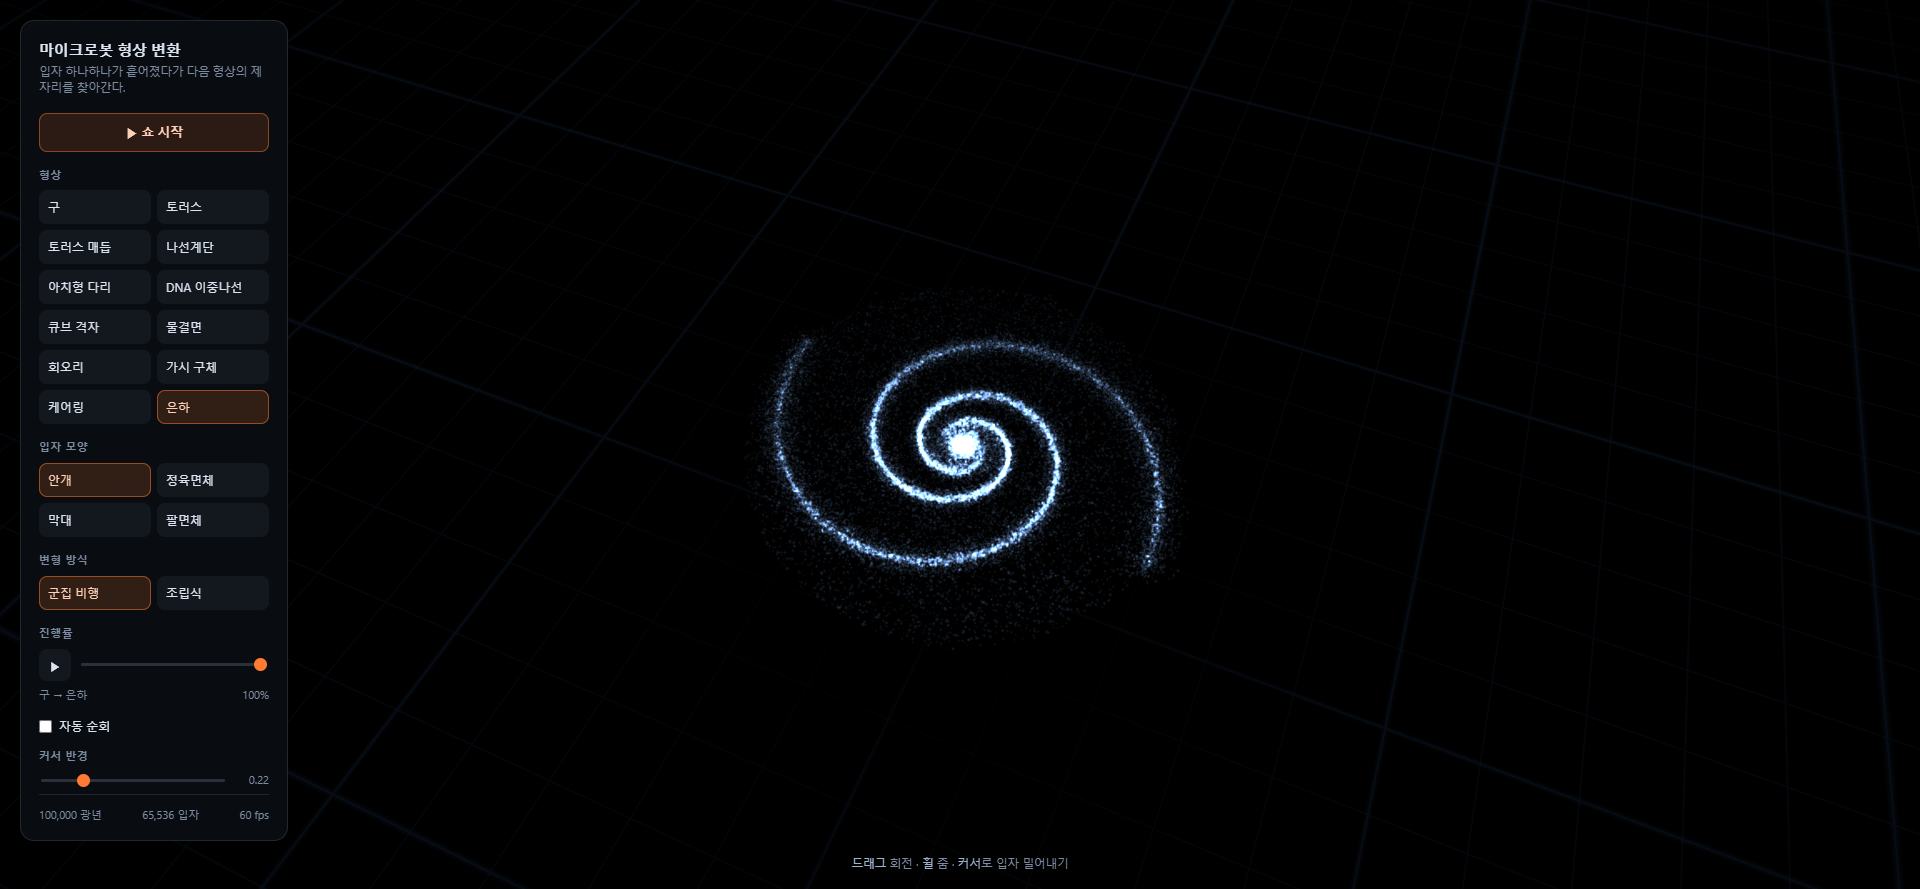
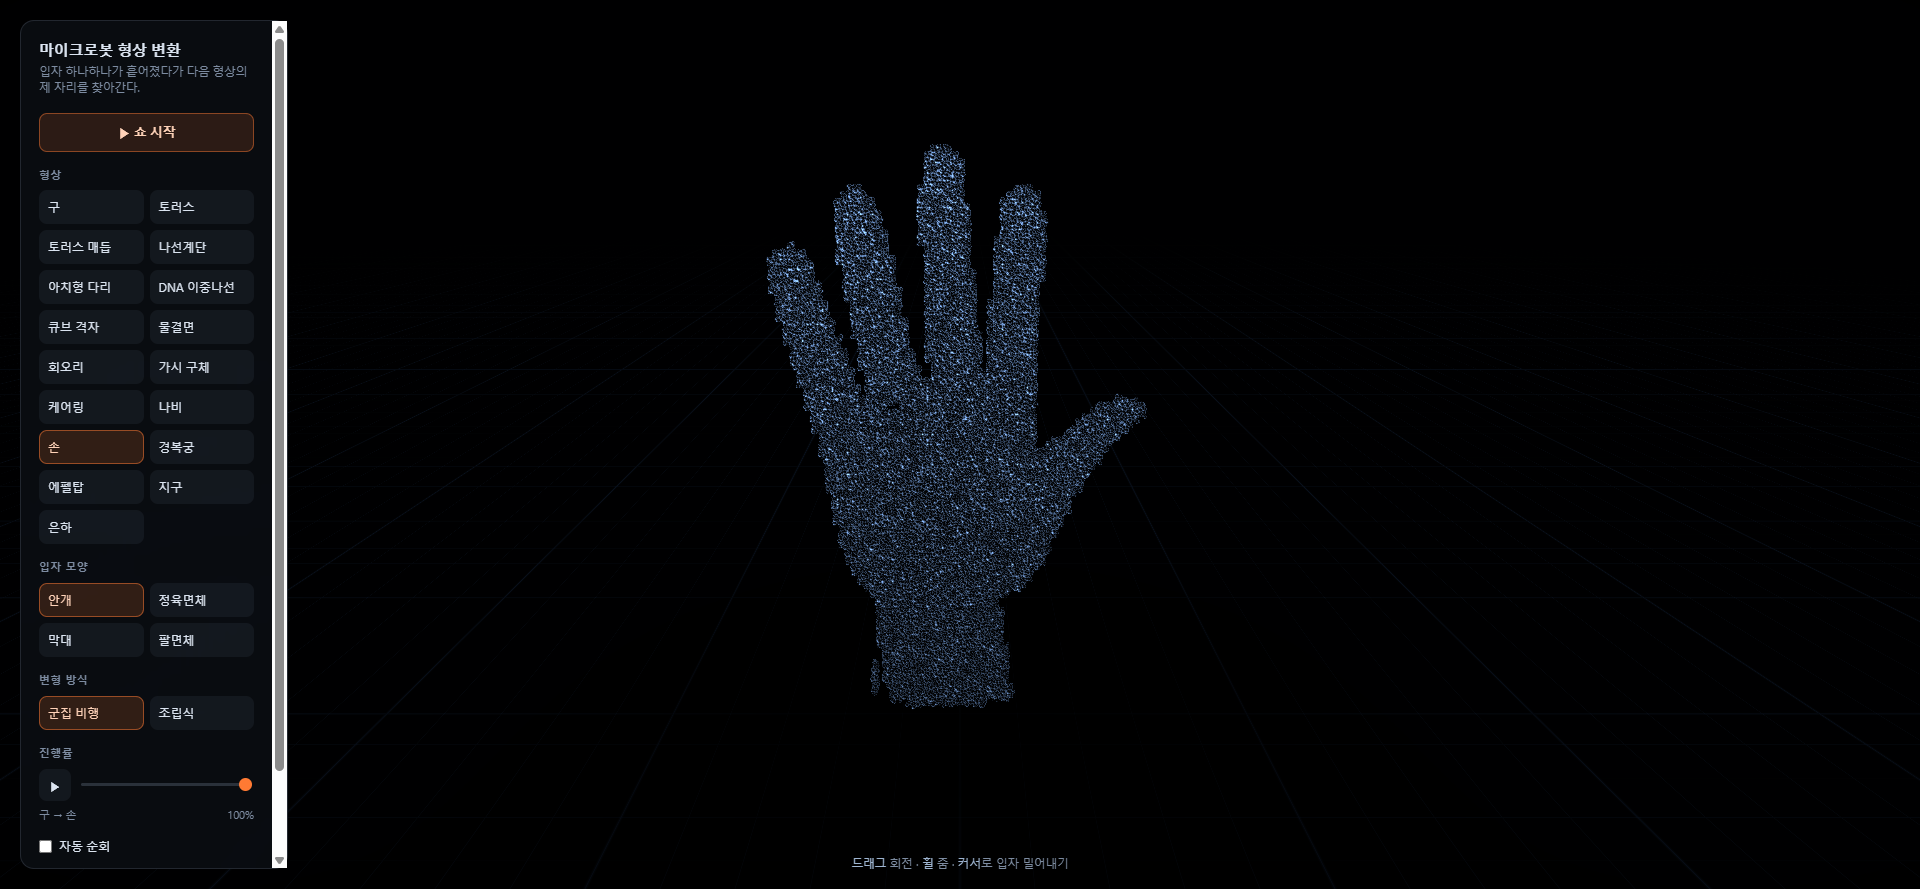
이미지 형상 5종 추가, 입자 크기·커서 반경 조정
손·경복궁·나비·에펠탑·지구를 이미지에서 실루엣으로 구워 넣었다.
caringMask.js를 masks.js로 일반화해 여러 마스크를 담는다.

- maskGenerator(id, thickness, cross): 실루엣을 XY 평면의 판으로 만든다.
  cross를 켜면 절반을 90도 돌려 ZY 평면에도 세운다. 에펠탑처럼 평면도가
  정사각형인 구조물은 판 하나로는 옆에서 보면 사라진다
- 에펠탑은 나무·가로등·올림픽 링·테두리가 섞여 있어 탑 기둥만 잘랐다
- 지구는 대륙 추출을 포기했다. 구름이 육지와 같은 색 신호(채도 낮고
  밝음)라 어떤 임계값에서도 대서양 구름대가 육지로 분류됐다. 대신
  사진의 밝기를 그대로 밀도 지도로 써서 구름 낀 행성으로 만들었다

입자 크기와 커서 반경도 손봤다.

- 기본 입자 크기 0.016 → 0.0125
- 가산 모드는 반대로 1.75배, 최소 2.6px. 작은 점에 부드러운 감쇠를
  그리면 칠할 픽셀이 없어 각진 알갱이로 깨지고 은하의 가는 팔도 끊긴다
- 커서 반경 기본값 0.22 → 0.06, 하한 0.03

diff --git a/src/masks.js b/src/masks.js
@@ -1,0 +1,47 @@
+// 이미지에서 뽑아 구워둔 실루엣 마스크들.
+//
+// 런타임에 이미지 파일을 들고 다니지 않으므로 "외부 에셋 0개" 원칙이
+// 유지된다. 1비트 = 격자 한 칸, 4칸이 16진수 한 글자다.
+//
+// 추출은 브라우저 캔버스로 했다. 대상마다 잉크 판정이 다르다:
+// 색이 있는 로고·사진은 채도/밝기, 선화(에펠탑)는 어두운 픽셀만.
+// earth는 실루엣이 아니라 사진의 밝기 지도다 — 자세한 건 shapes.js 참고.
+
+const RAW = {
[1 lines of base64/hex data omitted]
+
[1 lines of base64/hex data omitted]
+
[1 lines of base64/hex data omitted]
+
[1 lines of base64/hex data omitted]
+
[1 lines of base64/hex data omitted]
+
[1 lines of base64/hex data omitted]
+};
+
+const cache = new Map();
+
+export function maskOf(id) {
+  if (cache.has(id)) return cache.get(id);
+  const raw = RAW[id];
+  if (!raw) throw new Error("알 수 없는 마스크: " + id);
+
+  const cells = new Uint8Array(raw.w * raw.h);
+  for (let i = 0; i < raw.hex.length; i++) {
+    const v = parseInt(raw.hex[i], 16);
+    for (let k = 0; k < 4; k++) {
+      const idx = i * 4 + k;
+      if (idx < cells.length) cells[idx] = (v >> (3 - k)) & 1;
+    }
+  }
+
+  // 채운 칸 목록을 미리 뽑아둔다. 균등 표집이 인덱스 한 번으로 끝난다.
+  const ink = [];
+  for (let i = 0; i < cells.length; i++) if (cells[i]) ink.push(i);
+
+  const m = { w: raw.w, h: raw.h, cells, ink };
+  cache.set(id, m);
+  return m;
+}

diff --git a/src/shapes.js b/src/shapes.js
@@ -4,7 +4,7 @@
 // 불변 규칙: 모든 형상은 정확히 같은 개수의 점을 반환한다.
 // 입자 i가 형상 A의 i번째 자리에서 형상 B의 i번째 자리로 1:1 대응되어야 한다.
 
-import { MASK_W, MASK_H, isInk } from "./caringMask.js";
+import { maskOf } from "./masks.js";
 
 const TAU = Math.PI * 2;
 
@@ -395,27 +395,57 @@ function genGalaxy(pos, n, rnd) {
   }
 }
 
-// 케어링 로고 마크. 구워둔 실루엣 마스크 안을 고르게 채운다.
-function genCaring(pos, n, rnd) {
-  const ink = [];
-  for (let gy = 0; gy < MASK_H; gy++) {
-    for (let gx = 0; gx < MASK_W; gx++) {
-      if (isInk(gx, gy)) ink.push(gy * MASK_W + gx);
-    }
-  }
+// 구워둔 실루엣 마스크 안을 고르게 채운다. XY 평면에 서 있는 판이 된다.
+//
+// cross를 켜면 절반을 90도 돌려 ZY 평면에도 세운다. 에펠탑처럼 평면도가
+// 정사각형인 구조물은 판 하나로는 옆에서 보면 사라지지만, 십자로 세우면
+// 어느 방향에서 봐도 탑으로 읽힌다.
+function maskGenerator(maskId, thickness, cross = false) {
+  return function (pos, n, rnd) {
+    const m = maskOf(maskId);
+    const s = 2 / m.w;
+    const cx = m.w / 2, cy = m.h / 2;
 
-  const s = 2 / MASK_W;
-  const cx = MASK_W / 2, cy = MASK_H / 2;
-  const thickness = 0.13;   // 납작한 판은 옆에서 보면 사라진다
+    for (let i = 0; i < n; i++) {
+      const cell = m.ink[Math.floor(rnd() * m.ink.length)];
+      const gx = cell % m.w;
+      const gy = (cell / m.w) | 0;
+      const px = (gx + rnd() - cx) * s;
+      const py = -(gy + rnd() - cy) * s;
+      const pz = (rnd() - 0.5) * thickness;
+      if (cross && rnd() < 0.5) setP(pos, i, pz, py, px);
+      else setP(pos, i, px, py, pz);
+    }
+  };
+}
+
+// 지구. 마스크는 실루엣이 아니라 사진의 밝기 지도다.
+//
+// 이 렌더에서는 구름과 육지가 같은 색 신호라 대륙만 분리할 수 없었다.
+// 그래서 밝은 곳(구름·사막·육지)은 표면에 빽빽하게, 어두운 곳(심해)은
+// 살짝 안쪽에 성기게 놓는다. 구름 낀 행성으로 읽힌다.
+//
+// 앞뒤 반구에 같은 무늬를 쓴다. 정면이 사진과 일치하고, 뒷면은 어차피
+// 가려져 있다.
+function genEarth(pos, n, rnd) {
+  const m = maskOf("earth");
 
   for (let i = 0; i < n; i++) {
-    const cell = ink[Math.floor(rnd() * ink.length)];
-    const gx = cell % MASK_W;
-    const gy = (cell / MASK_W) | 0;
-    setP(pos, i,
-      (gx + rnd() - cx) * s,
-      -(gy + rnd() - cy) * s,
-      (rnd() - 0.5) * thickness);
+    // 구 표면 균등 표집
+    const z = rnd() * 2 - 1;
+    const a = rnd() * TAU;
+    const rxy = Math.sqrt(Math.max(0, 1 - z * z));
+    const x = rxy * Math.cos(a), y = rxy * Math.sin(a);
+
+    // 정사영으로 사진의 어느 칸인지 찾는다. |z|를 쓰므로 뒷면은 앞면의 거울.
+    const gx = Math.min(m.w - 1, Math.max(0, Math.floor(((x + 1) / 2) * m.w)));
+    const gy = Math.min(m.h - 1, Math.max(0, Math.floor(((1 - y) / 2) * m.h)));
+    const bright = m.cells[gy * m.w + gx] === 1;
+
+    // 어두운 바다는 일부를 솎아내고 살짝 안쪽에 둔다.
+    const keep = bright || rnd() < 0.45;
+    const r = keep ? (bright ? 1.0 : 0.975) : 0.975;
+    setP(pos, i, x * r, y * r, z * r);
   }
 }
 
@@ -433,7 +463,12 @@ const GENERATORS = {
   vortex: genVortex,
   spikeball: genSpikeBall,
   galaxy: genGalaxy,
-  caring: genCaring,
+  caring: maskGenerator("caring", 0.13),
+  hand: maskGenerator("hand", 0.10),
+  palace: maskGenerator("palace", 0.42),
+  eiffel: maskGenerator("eiffel", 0.30, true),
+  butterfly: maskGenerator("butterfly", 0.07),
+  earth: genEarth,
 };
 
 // realSize: 이 형상이 "현실에서 몇 미터짜리인가". 월드 좌표를 바꾸지 않는다.
@@ -454,6 +489,11 @@ export const SHAPE_LIST = [
   { id: "vortex", label: "회오리", realSize: 26 },
   { id: "spikeball", label: "가시 구체", realSize: 9 },
   { id: "caring", label: "케어링", realSize: 4 },
+  { id: "butterfly", label: "나비", realSize: 0.12 },
+  { id: "hand", label: "손", realSize: 0.19 },
+  { id: "palace", label: "경복궁", realSize: 30 },
+  { id: "eiffel", label: "에펠탑", realSize: 330 },
+  { id: "earth", label: "지구", realSize: 12742, unit: "km" },
   // 은하만 단위가 다르다. 미터로 적으면 읽을 수 없는 숫자가 된다.
   // additive: 겹칠수록 밝아지게 그린다. 빽빽한 팽대부가 저절로 타오른다.
   { id: "galaxy", label: "은하", realSize: 100000, unit: "광년", additive: true },

diff --git a/src/particles.js b/src/particles.js
@@ -9,6 +9,8 @@ import { PATH_GLSL, pathUniforms } from "./pathGlsl.js";
 
 const VERT = PATH_GLSL + `
 uniform float uSize;
+uniform float uSizeBoost;
+uniform float uAdditive;
 uniform float uSpeedScale;
 uniform float uProjScale;
 uniform float uCamDist;
@@ -49,9 +51,12 @@ void main() {
   // uSize는 월드 단위 지름이다. 원근에 따라 자연스럽게 작아진다.
   // 상한이 헐거우면 카메라가 가까이 붙었을 때 입자가 거대한 방울이 되어
   // 화면을 덮고 형상이 사라진다. 평소 크기는 2~6px이라 상한이 낮아도 손해가 없다.
-  float px = uSize * (0.62 + grade * 1.3) * (1.0 + vSpeed * 0.8)
+  //
+  // 가산 모드는 더 크고 최소 크기도 높다. 작은 점에 부드러운 감쇠를 그리면
+  // 그릴 픽셀이 없어 각진 알갱이로 깨지고, 은하의 가는 팔도 끊겨 보인다.
+  float px = uSize * uSizeBoost * (0.62 + grade * 1.3) * (1.0 + vSpeed * 0.8)
              * uProjScale / max(-mv.z, 0.1);
-  gl_PointSize = clamp(px, 1.0, 12.0);
+  gl_PointSize = clamp(px, uAdditive > 0.5 ? 2.6 : 1.0, 14.0);
 }
 `;
 
@@ -79,7 +84,7 @@ void main() {
   // 여기서 거리 감쇠를 배경색으로 "섞으면" 안 된다. 배경색이 입자 수만큼
   // 더해져 화면 전체가 뿌옇게 뜬다. 검정 쪽으로 곱해서 줄여야 한다.
   if (uAdditive > 0.5) {
-    float soft = pow(max(0.0, 1.0 - r), 2.2);
+    float soft = pow(max(0.0, 1.0 - r), 1.5);
     vec3 star = mix(uRimColor, uHotColor, vSpeed * 0.7);
     vec3 acc = star * vTint * soft * uAdditiveGain * (1.0 - vFog * uFogAmount);
     gl_FragColor = vec4(acc, 1.0);
@@ -135,7 +140,8 @@ export function createParticles(count) {
     transparent: false,
     depthWrite: true,
     uniforms: Object.assign(pathUniforms(), {
-      uSize: { value: 0.016 },
+      uSize: { value: 0.0125 },
+      uSizeBoost: { value: 1 },
       uProjScale: { value: 1000 },
       uCamDist: { value: 6.3 },
       // 조립식은 시차가 커서 각 입자의 이동 구간이 짧고, 그만큼 실제로
@@ -186,6 +192,7 @@ export function createParticles(count) {
     // 겹침이 누적되지 않아 가산의 의미가 없어진다.
     setAdditive(on) {
       material.uniforms.uAdditive.value = on ? 1 : 0;
+      material.uniforms.uSizeBoost.value = on ? 1.75 : 1;
       material.blending = on ? THREE.AdditiveBlending : THREE.NormalBlending;
       material.transparent = on;
       material.depthWrite = !on;

diff --git a/src/ground.js b/src/ground.js
@@ -64,7 +64,7 @@ void main() {
 // 월드 크기가 0.35~1.2 밖으로 나가면 격자가 뭉개지거나 너무 성겨진다.
 // 은하(10만 광년)부터 로고(4m)까지 걸치므로 자릿수를 넓게 깐다.
 const NICE_METERS = [];
-for (let e = -1; e <= 6; e++) {
+for (let e = -2; e <= 6; e++) {
   for (const m of [1, 2, 5]) NICE_METERS.push(m * Math.pow(10, e));
 }
 
@@ -78,7 +78,7 @@ export function pickCell(realSizeMeters, worldSpan) {
     if (err < bestErr) { bestErr = err; best = m; }
   }
   // 0.1 단위까지 내려가면 소수점이 붙는다. 읽기 좋게 정리한다.
-  const label = best >= 1 ? String(best) : String(Math.round(best * 10) / 10);
+  const label = best >= 1 ? String(best) : String(Math.round(best * 100) / 100);
   return { meters: label, world: (best / realSizeMeters) * worldSpan };
 }
 

diff --git a/src/cameraPresets.js b/src/cameraPresets.js
@@ -23,8 +23,13 @@ const PRESETS = {
   // 은하는 나선이 보이려면 위에서 내려다봐야 한다. 완전한 수직은
   // 원반의 두께가 사라져 평면 그림이 되므로 조금 눕힌다.
   galaxy: { theta: 0.4, phi: 0.62, radius: 6.4 },
-  // 로고는 XY 평면에 서 있다. theta 0이 정면이다.
+  // 마스크 형상은 XY 평면에 서 있다. theta 0이 정면이다.
   caring: { theta: 0.0, phi: 1.34, radius: 5.5 },
+  hand: { theta: 0.0, phi: 1.30, radius: 5.5 },
+  butterfly: { theta: 0.0, phi: 1.20, radius: 5.6 },
+  palace: { theta: 0.12, phi: 1.44, radius: 6.4 },
+  eiffel: { theta: 0.45, phi: 1.60, radius: 6.1 },   // 탑은 올려다본다
+  earth: { theta: 0.25, phi: 1.12, radius: 6.0 },
 };
 
 export function presetFor(shapeId) {

diff --git a/index.html b/index.html
@@ -347,8 +347,8 @@
 
   <p class="label">커서 반경</p>
   <div class="scrub-row">
-    <input type="range" id="cursorRadius" min="8" max="75" value="22">
-    <span id="cursorRadiusValue" class="num">0.22</span>
+    <input type="range" id="cursorRadius" min="3" max="75" value="6">
+    <span id="cursorRadiusValue" class="num">0.06</span>
   </div>
 
   <div class="stats">

diff --git a/src/pointer.js b/src/pointer.js
@@ -12,9 +12,9 @@
 // 그 중복이 버그의 원인이 된다. 사용자가 입자를 만지는 순간은 대개
 // 형상이 정착한 상태라 실질적 차이가 없다.
 
-export const RADIUS_MIN = 0.08;
+export const RADIUS_MIN = 0.03;
 export const RADIUS_MAX = 0.75;
-export const RADIUS_DEFAULT = 0.22;
+export const RADIUS_DEFAULT = 0.06;
 
 const STRENGTH = 4.5;
 

diff --git a/docs/superpowers/specs/2026-09-19-microbot-morph-design.md b/docs/superpowers/specs/2026-09-19-microbot-morph-design.md
@@ -375,6 +375,43 @@ three.js 코어만 CDN에서 가져온다. OrbitControls·EffectComposer 같은
 은하는 10만 광년이라 미터로 적을 수 없다. 형상에 선택적 `unit`을 두고,
 바닥 격자의 눈금 후보도 자릿수를 넓게(0.1m ~ 백만) 깔았다.
 
+## 7차 추가 — 이미지 형상 5종, 조정
+
+### 마스크 파이프라인을 일반화했다
+
+`caringMask.js`를 `masks.js`로 바꿔 여러 마스크를 담는다. 마스크 하나당
+`{w, h, hex}`이고, 디코드 시 채운 칸 목록(`ink`)을 미리 뽑아 균등 표집이
+인덱스 한 번으로 끝나게 한다.
+
+`maskGenerator(id, thickness, cross)`가 실루엣을 XY 평면의 판으로 만든다.
+`cross`를 켜면 절반을 90도 돌려 ZY 평면에도 세운다 — 에펠탑처럼 평면도가
+정사각형인 구조물은 판 하나로는 옆에서 보면 사라진다.
+
+추출할 때 대상마다 잉크 판정이 달랐다. 색이 있는 로고·사진은 채도와 밝기로,
+선화(에펠탑)는 어두운 픽셀만으로 잡았다. 에펠탑은 나무·가로등·올림픽 링·
+테두리가 섞여 있어 탑 기둥만 잘라냈다(x 348~676, y 16~758).
+
+### 지구: 대륙을 분리할 수 없었다
+
+받은 이미지는 구름이 많은 실사 렌더다. 바다는 파랗고 육지는 갈색·초록이라
+색으로 갈릴 것 같았지만, **구름이 육지와 같은 신호**(채도 낮고 밝음)라
+어떤 임계값을 써도 대서양의 구름대가 육지로 분류됐다.
+
+그래서 대륙 추출을 포기하고 **사진의 밝기를 그대로 밀도 지도**로 썼다.
+밝은 칸(구름·사막·육지)은 구 표면에 빽빽하게, 어두운 칸(심해)은 일부를
+솎아 살짝 안쪽에 둔다. 구름 낀 행성으로 읽힌다.
+
+앞뒤 반구에 같은 무늬를 쓴다(정사영에 |z|를 쓴다). 정면이 사진과 일치하고
+뒷면은 어차피 가려진다.
+
+### 입자 크기와 커서 반경
+
+- 기본 입자 크기를 0.016에서 0.0125로 줄였다.
+- **가산 모드는 반대로 키웠다**(1.75배, 최소 2.6px). 작은 점에 부드러운
+  감쇠를 그리면 칠할 픽셀이 없어 각진 알갱이로 깨지고, 은하의 가는 팔도
+  끊겨 보인다. 감쇠 지수도 2.2에서 1.5로 완만하게 했다.
+- 커서 반경 기본값을 0.22에서 0.06으로, 하한을 0.03으로 내렸다.
+
 ## 이번 범위 밖
 
 텍스트 입력, 3D 모델 업로드, 이미지 변환, 사운드, 톤 전환 버튼, 다국어.

diff --git a/README.md b/README.md
@@ -42,6 +42,7 @@ python -m http.server 8765
 ```
 index.html        importmap, 캔버스, UI 마크업
 src/shapes.js     형상 생성기 (순수 함수, three.js 비의존)
+src/masks.js      이미지에서 구운 실루엣 마스크 (외부 파일 없음)
 src/delayModes.js 군집 비행 / 조립식 시차 함수
 src/pathGlsl.js   궤적 수식 (두 렌더러가 공유)
 src/ground.js     격자 바닥, 지평선, 접지 그림자 — 크기 기준
